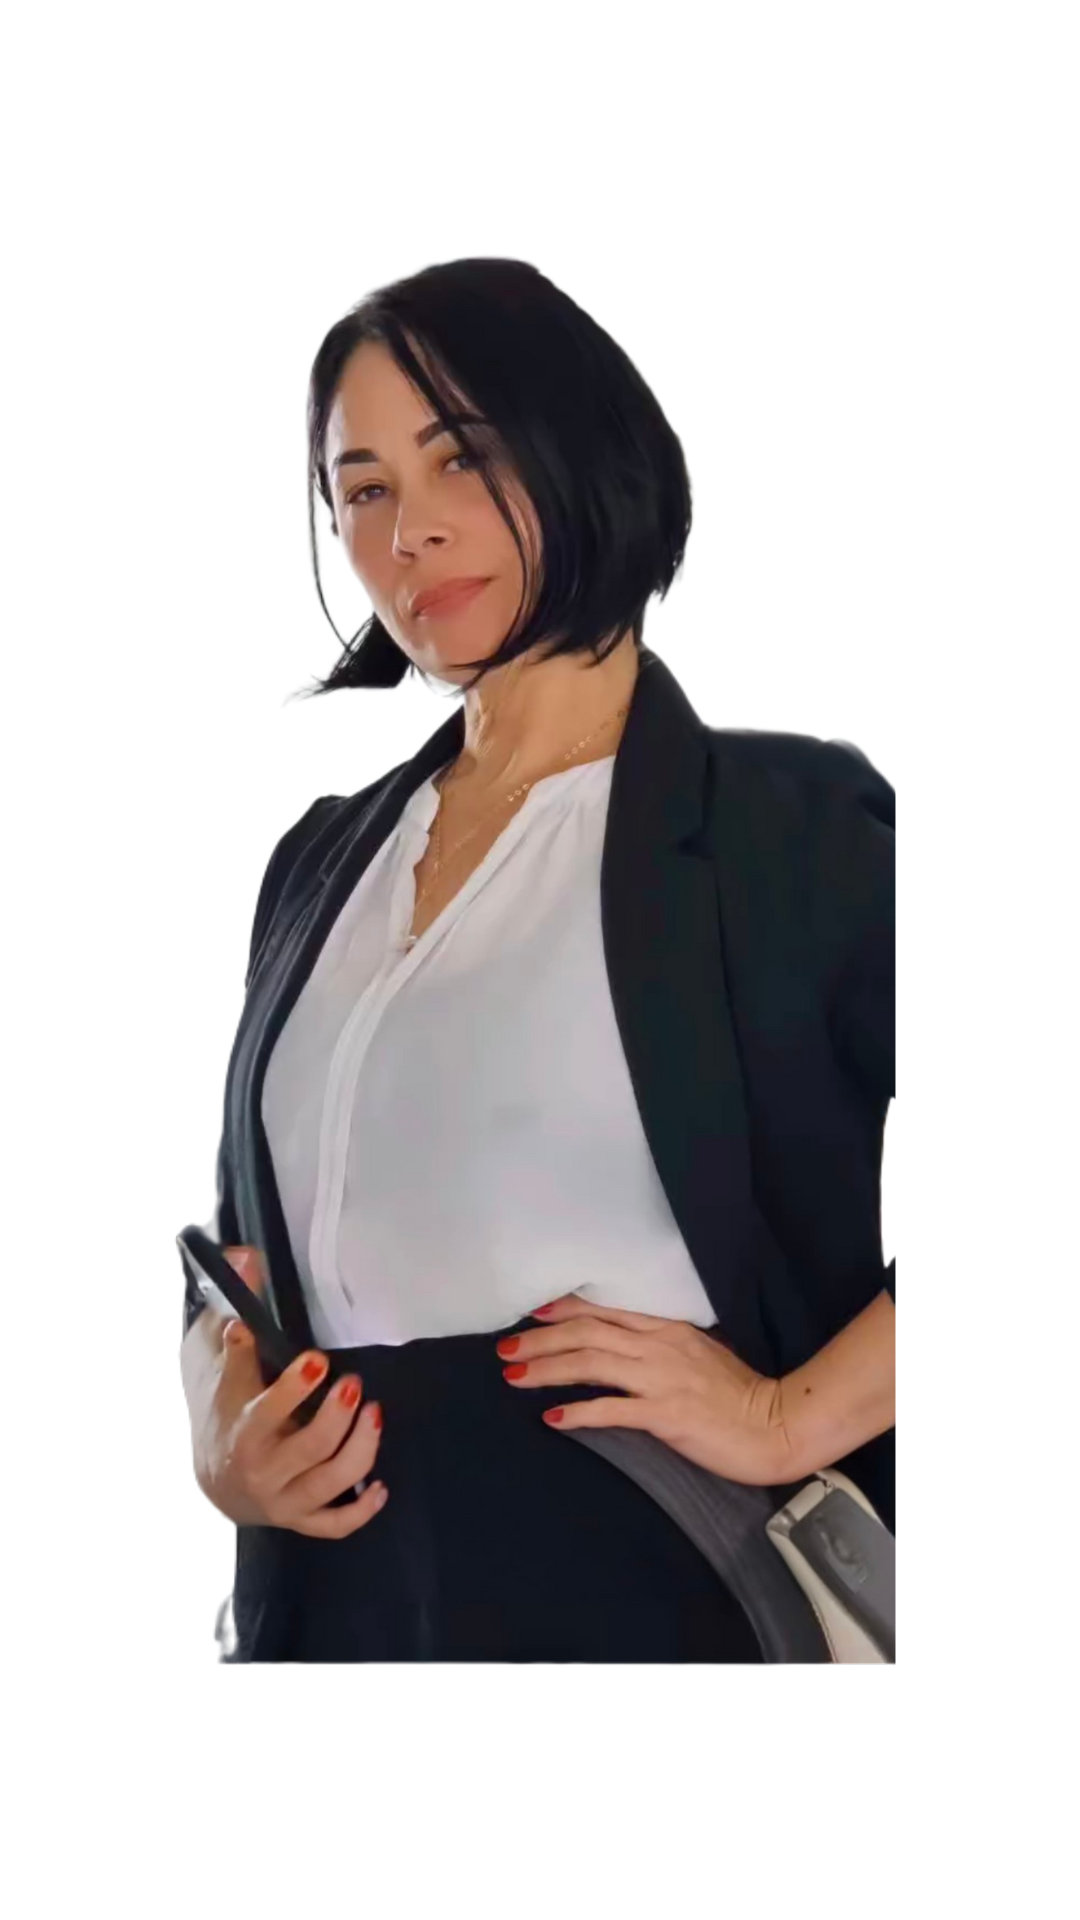
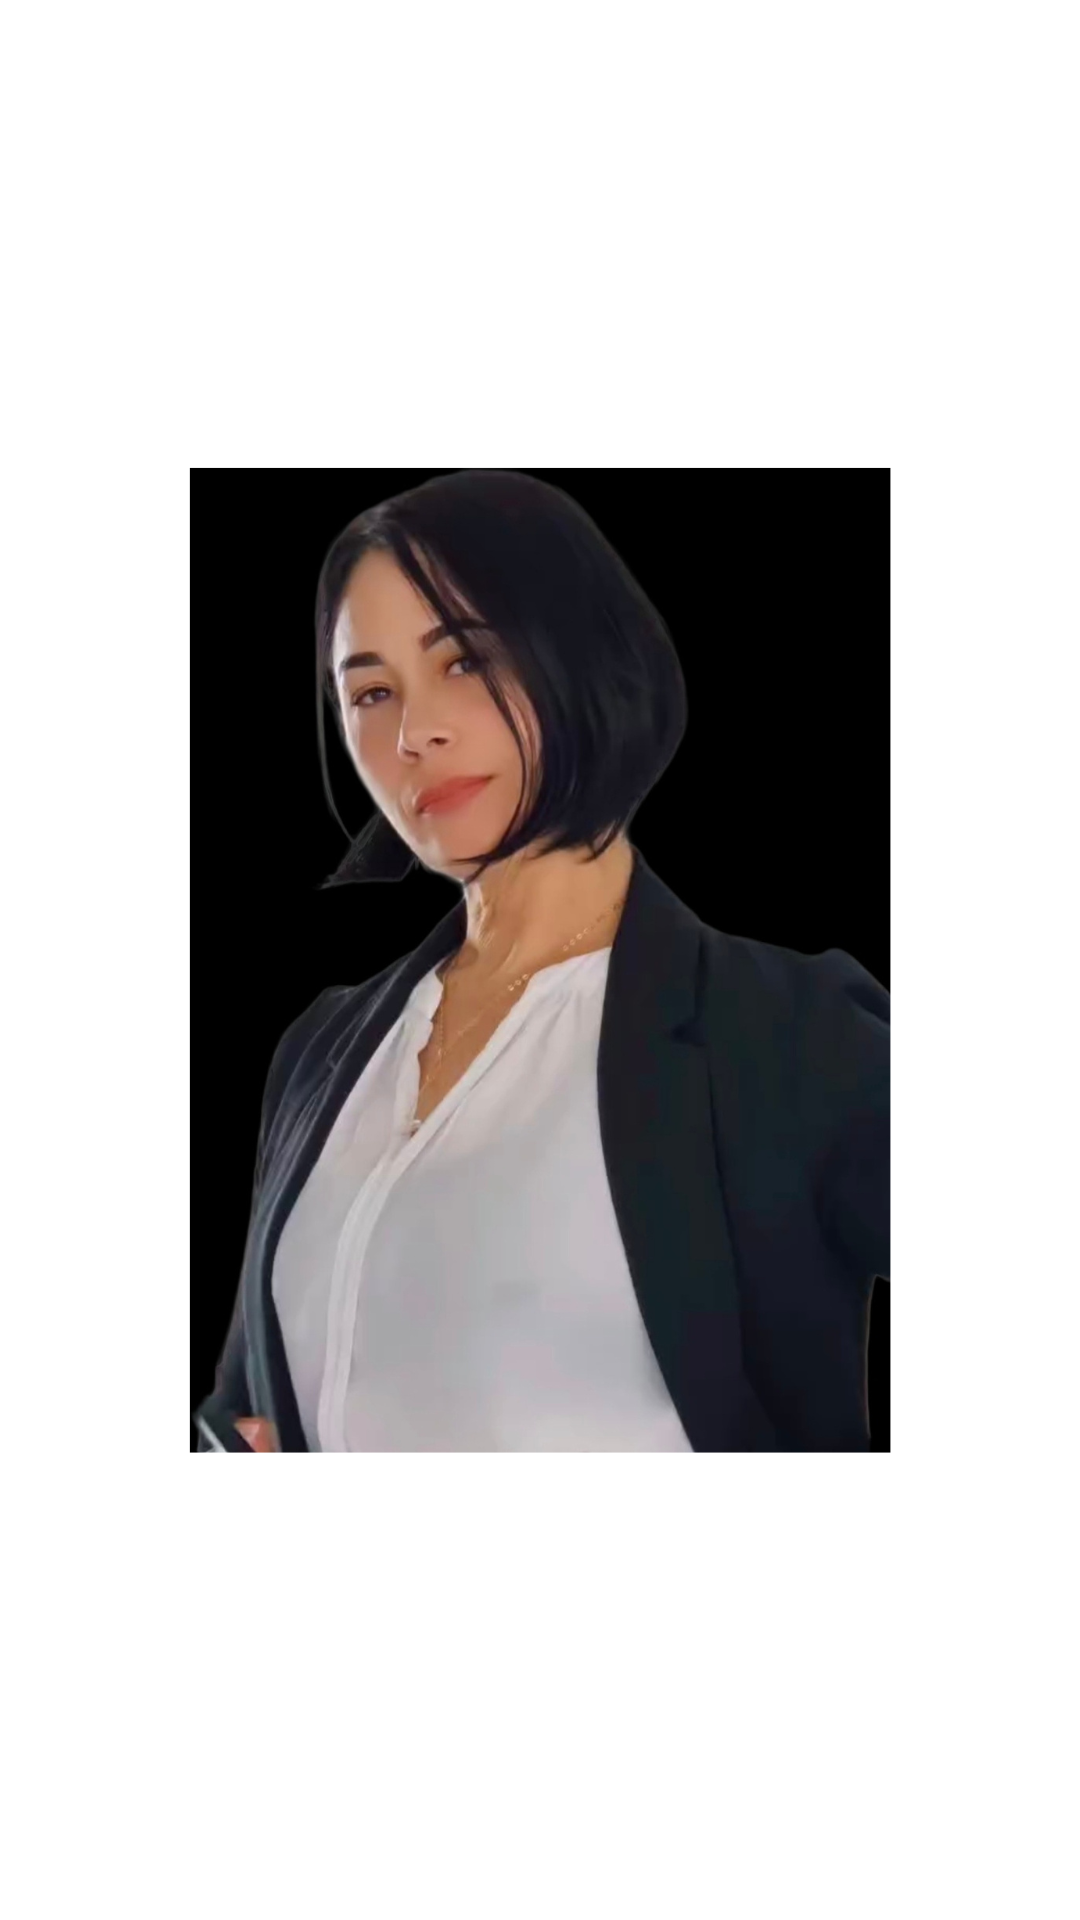
Changes

diff --git a/src/components/Hero.tsx b/src/components/Hero.tsx
@@ -3,7 +3,7 @@ import { ArrowRight, Star } from 'lucide-react';
 import { Button } from '@/components/ui/button';
 import { BookingDialog } from '@/components/BookingDialog';
 import heroImage from '@/assets/hero-spa-interior.jpg';
-import yoannaImage from '@/assets/yoanna-valdes.jpg';
+import yoannaImage from '@/assets/yoanna-new.png';
 
 const Hero = () => {
   const [isBookingOpen, setIsBookingOpen] = useState(false);
@@ -42,7 +42,7 @@ const Hero = () => {
               <img
                 src={yoannaImage}
                 alt="Yoanna Valdés - Experta en Belleza"
-                className="w-24 h-24 rounded-full object-cover border-4 border-luxury-gold/30"
+                className="w-24 h-24 rounded-full object-cover object-top border-4 border-luxury-gold/30"
               />
             </div>
             <div>
